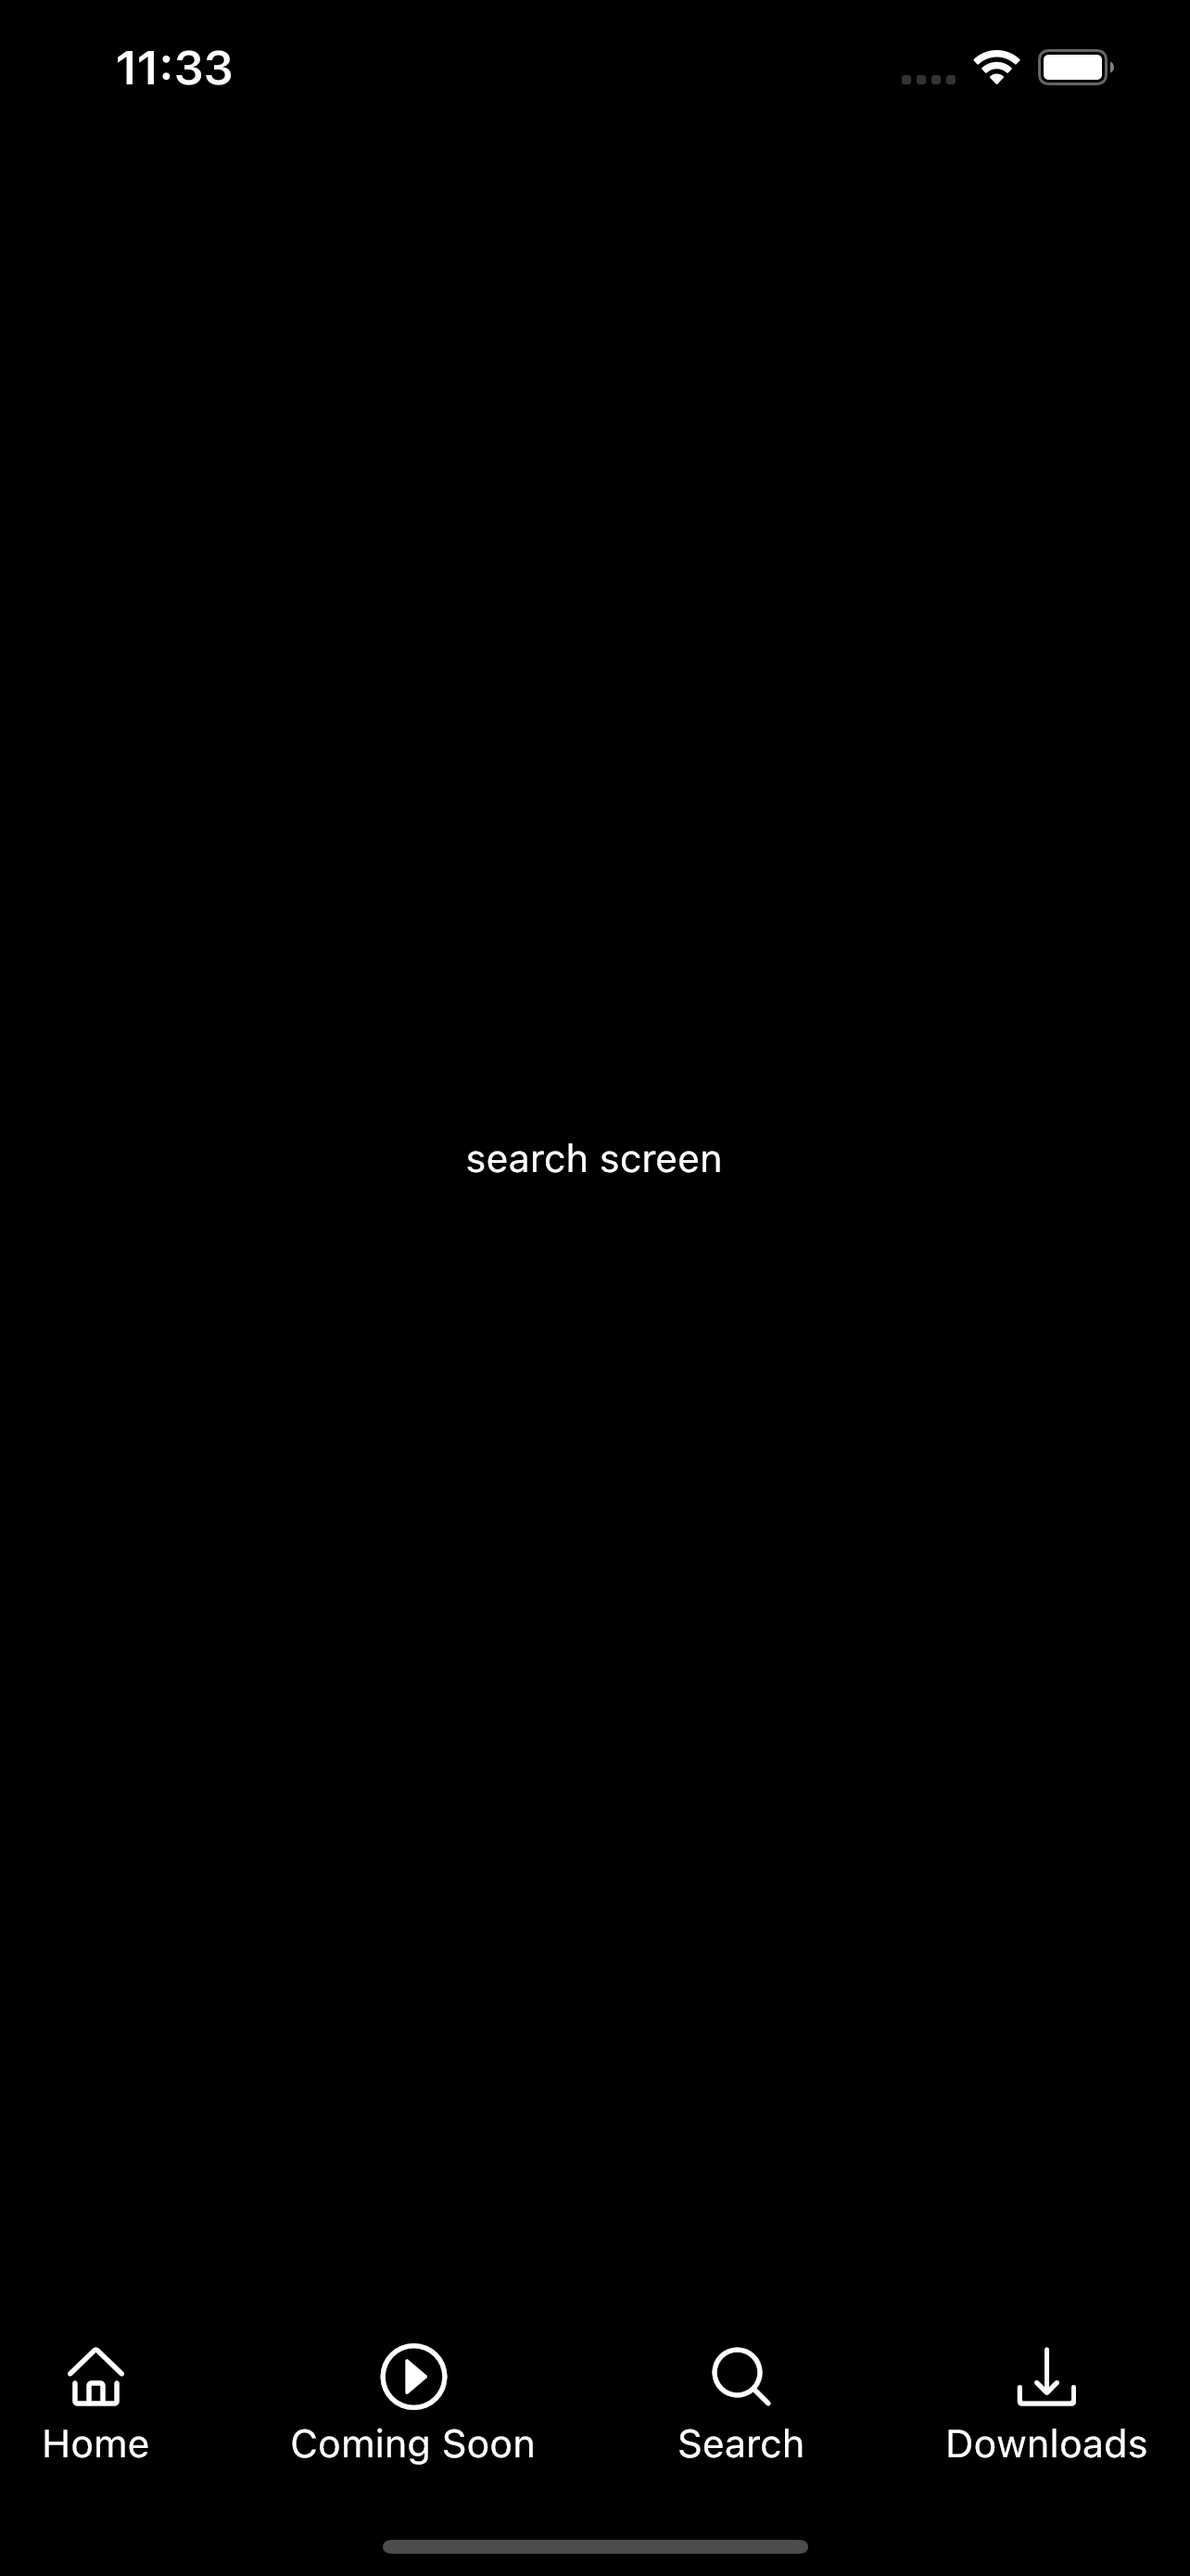
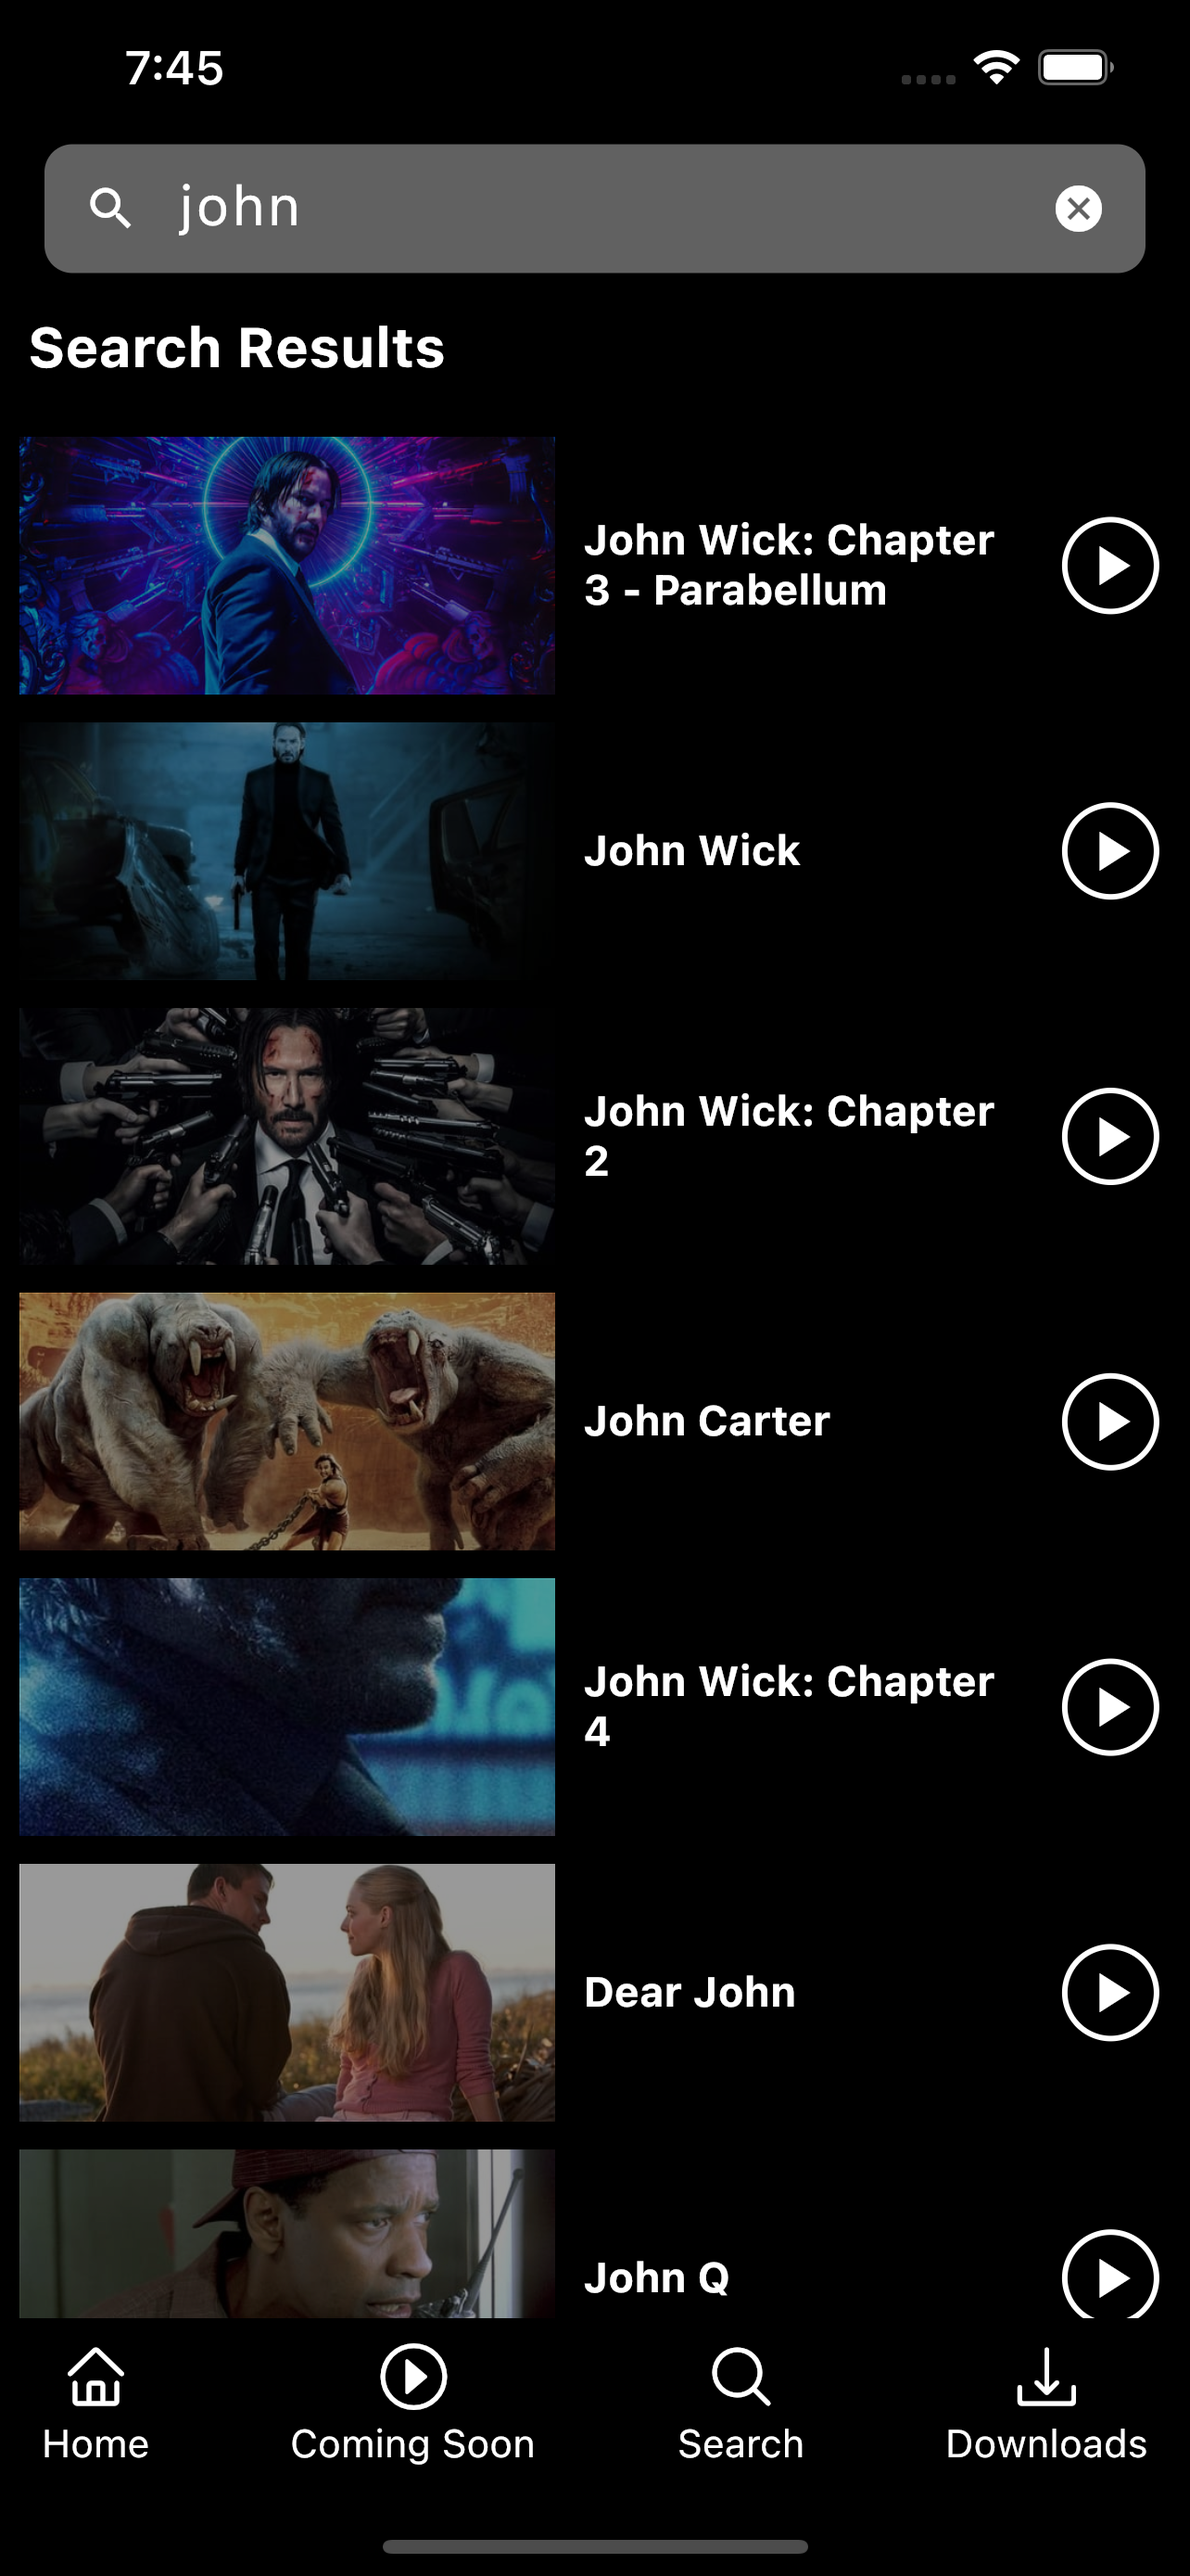
Search screen

diff --git a/getflix/lib/screens/search_screen.dart b/getflix/lib/screens/search_screen.dart
@@ -1,0 +1,227 @@
+import 'package:flutter/material.dart';
+import 'package:getflix/export.dart';
+import 'package:provider/provider.dart';
+
+class SearchScreen extends StatefulWidget {
+  @override
+  _SearchScreenState createState() => _SearchScreenState();
+}
+
+class _SearchScreenState extends State<SearchScreen> {
+  TextEditingController _textEditingController = TextEditingController();
+  SearchMovieProvider _searchMovieProvider;
+
+  bool isSearch = false;
+  bool isGetResult = false;
+
+  var size;
+  String pictureUrl = 'https://image.tmdb.org/t/p/w500';
+
+  @override
+  Widget build(BuildContext context) {
+    size = MediaQuery.of(context).size;
+
+    return Scaffold(
+      backgroundColor: Colors.black,
+      appBar: getAppBar(),
+      body: getBody(),
+    );
+  }
+
+  Widget getAppBar() {
+    return AppBar(
+      brightness: Brightness.dark,
+      backgroundColor: Colors.black,
+      elevation: 0,
+      title: Container(
+        height: size.height * 0.05,
+        decoration: BoxDecoration(
+          color: Colors.grey[700],
+          borderRadius: BorderRadius.circular(10),
+        ),
+        child: TextField(
+          controller: _textEditingController,
+          onSubmitted: (value) {
+            searchMovie(_textEditingController.text);
+          },
+          style: TextStyle(
+            color: Colors.white,
+            fontSize: 20.0,
+            letterSpacing: 1.1,
+          ),
+          decoration: InputDecoration(
+            border: InputBorder.none,
+            prefixIcon: Icon(
+              Icons.search,
+              color: Colors.white,
+              size: 20.0,
+            ),
+            hintText: 'Search....',
+            hintStyle: TextStyle(
+              color: Colors.white70,
+              fontSize: 20.0,
+            ),
+            suffixIcon: IconButton(
+              onPressed: () {
+                _textEditingController.clear();
+              },
+              icon: Icon(
+                Icons.cancel_sharp,
+                size: 20.0,
+                color: Colors.white,
+              ),
+            ),
+          ),
+        ),
+      ),
+    );
+  }
+
+  searchMovie(String keyWord) async {
+    _searchMovieProvider =
+        Provider.of<SearchMovieProvider>(context, listen: false);
+    await _searchMovieProvider.loadSearchMovieList(keyWord);
+  }
+
+  Widget getBody() {
+    return SingleChildScrollView(
+      child: Column(
+        crossAxisAlignment: CrossAxisAlignment.start,
+        children: [
+          // search results word
+          Padding(
+            padding: const EdgeInsets.all(10.0),
+            child: Text(
+              'Search Results',
+              style: TextStyle(
+                color: Colors.white,
+                fontWeight: FontWeight.bold,
+                fontSize: 20.0,
+              ),
+            ),
+          ),
+          SizedBox(height: 10.0),
+
+          Consumer<SearchMovieProvider>(
+            builder: (context, provider, widget) {
+              if (provider.getSearchMovieList() != null &&
+                  provider.getSearchMovieList().length > 0) {
+                List<SearchMovie> searchList = provider.getSearchMovieList();
+                return Column(
+                  children: List.generate(searchList.length, (index) {
+                    return Padding(
+                      padding: const EdgeInsets.only(bottom: 10.0),
+                      child: Row(
+                        mainAxisAlignment: MainAxisAlignment.spaceEvenly,
+                        children: [
+                          // search result list
+                          Container(
+                            width: size.width * 0.85,
+                            height: size.height * 0.1,
+                            child: Row(
+                              children: [
+                                // Poster Image
+                                Stack(
+                                  children: [
+                                    Container(
+                                      width: size.width * 0.45,
+                                      height: double.infinity,
+                                      decoration: BoxDecoration(
+                                        image: getPoster(searchList[index]),
+                                      ),
+                                    ),
+                                    Container(
+                                      width: size.width * 0.45,
+                                      height: double.infinity,
+                                      decoration: BoxDecoration(
+                                        color: Colors.black.withOpacity(0.4),
+                                      ),
+                                    ),
+                                  ],
+                                ),
+                                SizedBox(width: 10.0),
+                                Flexible(
+                                  child: getTitle(searchList[index]),
+                                ),
+                              ],
+                            ),
+                          ),
+                          Container(
+                            width: size.width * 0.1,
+                            child: Center(
+                              child: Container(
+                                width: 35,
+                                height: 35,
+                                decoration: BoxDecoration(
+                                  shape: BoxShape.circle,
+                                  border: Border.all(
+                                    width: 2.0,
+                                    color: Colors.white,
+                                  ),
+                                ),
+                                child: Center(
+                                  child: Icon(
+                                    Icons.play_arrow,
+                                    color: Colors.white,
+                                  ),
+                                ),
+                              ),
+                            ),
+                          ),
+                        ],
+                      ),
+                    );
+                  }),
+                );
+              } else {
+                return Container();
+              }
+            },
+          )
+        ],
+      ),
+    );
+  }
+
+  dynamic getPoster(SearchMovie searchMovie) {
+    String vaildPosterUrl = '';
+    if (searchMovie.backdropPath.toString() != "null") {
+      vaildPosterUrl = searchMovie.backdropPath;
+    } else {
+      if (searchMovie.posterPath.toString() != "null") {
+        vaildPosterUrl = searchMovie.posterPath;
+      }
+    }
+
+    if (vaildPosterUrl != '') {
+      return DecorationImage(
+          image: NetworkImage(pictureUrl + vaildPosterUrl), fit: BoxFit.cover);
+    }
+    return DecorationImage(
+      image: AssetImage(
+        'assets/images/logo.ico',
+      ),
+      scale: 0.08,
+    );
+  }
+
+  Widget getTitle(SearchMovie searchMovie) {
+    String title = 'No title';
+    if (searchMovie.title.toString() != "null") {
+      title = searchMovie.title;
+    } else {
+      if (searchMovie.name.toString() != "null") {
+        title = searchMovie.name;
+      }
+    }
+
+    return Text(
+      title,
+      style: TextStyle(
+        color: Colors.white,
+        fontSize: 15.0,
+        fontWeight: FontWeight.w700,
+      ),
+    );
+  }
+}

diff --git a/getflix/lib/export.dart b/getflix/lib/export.dart
@@ -4,24 +4,28 @@ export './main.dart';
 export './screens/root_screen.dart';
 export './screens/home_screen.dart';
 export './screens/coming_soon_screen.dart';
+export './screens/search_screen.dart';
 
 // providers
 export './providers/popular_movie_provider.dart';
 export './providers/top_rated_movie_provider.dart';
 export './providers/weekly_trending_movie_provider.dart';
 export './providers/coming_soon_movie_provider.dart';
+export './providers/search_movie_provider.dart';
 
 // repository
 export './repository/popular_movie_repository.dart';
 export './repository/top_rated_movie_repository.dart';
 export './repository/weekly_trending_repository.dart';
 export './repository/coming_soon_movie_repository.dart';
+export './repository/search_movie_repository.dart';
 
 // model
 export './model/popular_movie.dart';
 export './model/top_rated_movie.dart';
 export './model/weekly_trending_movie.dart';
 export './model/coming_soon_movie.dart';
+export './model/search_movie.dart';
 
 // data
 export './data/footer_data.dart';

diff --git a/getflix/lib/repository/search_movie_repository.dart b/getflix/lib/repository/search_movie_repository.dart
@@ -1,0 +1,29 @@
+import 'dart:convert';
+
+import 'package:getflix/export.dart';
+import 'package:getflix/service_key.dart';
+import 'package:http/http.dart' as http;
+
+class SearchMovieRepository {
+  var queryParam = {'api_key': api_key, 'query': ''};
+
+  Future<List<SearchMovie>> loadSearchMovieList(String keyWord) async {
+    queryParam['query'] = keyWord;
+
+    var uri = Uri.https('api.themoviedb.org', '/3/search/multi', queryParam);
+
+    var response = await http.get(uri);
+
+    if (response.body != null) {
+      Map<String, dynamic> body = json.decode(response.body);
+
+      if (body['results'] != null) {
+        List<dynamic> list = body['results'];
+
+        return list.map((item) => SearchMovie.fromJson(item)).toList();
+      } else {
+        return null;
+      }
+    }
+  }
+}

diff --git a/getflix/lib/model/search_movie.dart b/getflix/lib/model/search_movie.dart
@@ -1,0 +1,27 @@
+class SearchMovie {
+  int id;
+  String title;
+  String posterPath;
+  String overview;
+  String backdropPath;
+  String name;
+
+  SearchMovie(
+      {this.id,
+      this.title,
+      this.posterPath,
+      this.overview,
+      this.backdropPath,
+      this.name});
+
+  factory SearchMovie.fromJson(Map<String, dynamic> json) {
+    return SearchMovie(
+      id: json['id'] as int,
+      title: json['title'] as String,
+      posterPath: json['poster_path'] as String,
+      overview: json['overview'] as String,
+      backdropPath: json['backdrop_path'] as String,
+      name: json['name'] as String,
+    );
+  }
+}

diff --git a/getflix/lib/providers/search_movie_provider.dart b/getflix/lib/providers/search_movie_provider.dart
@@ -1,0 +1,20 @@
+import 'package:flutter/material.dart';
+import 'package:getflix/export.dart';
+
+class SearchMovieProvider extends ChangeNotifier {
+  SearchMovieRepository _searchMovieRepository = SearchMovieRepository();
+
+  List<SearchMovie> _searchMovieList = [];
+
+  List<SearchMovie> getSearchMovieList() => _searchMovieList;
+
+  Future<List> loadSearchMovieList(String keyWord) async {
+    List<SearchMovie> searchMovieList =
+        await _searchMovieRepository.loadSearchMovieList(keyWord);
+    _searchMovieList = searchMovieList;
+
+    notifyListeners();
+
+    return _searchMovieList;
+  }
+}

diff --git a/getflix/lib/screens/root_screen.dart b/getflix/lib/screens/root_screen.dart
@@ -46,9 +46,7 @@ class _RootScreenState extends State<RootScreen> {
       children: [
         HomeScreen(),
         ComingSoonScreen(),
-        Center(
-            child:
-                Text('search screen', style: TextStyle(color: Colors.white))),
+        SearchScreen(),
         Center(
             child: Text('downloads screen',
                 style: TextStyle(color: Colors.white))),

diff --git a/getflix/lib/main.dart b/getflix/lib/main.dart
@@ -31,6 +31,9 @@ class MyApp extends StatelessWidget {
           ChangeNotifierProvider(
             create: (BuildContext context) => ComingSoonMovieProvider(),
           ),
+          ChangeNotifierProvider(
+            create: (BuildContext context) => SearchMovieProvider(),
+          ),
         ],
         child: RootScreen(),
       ),
